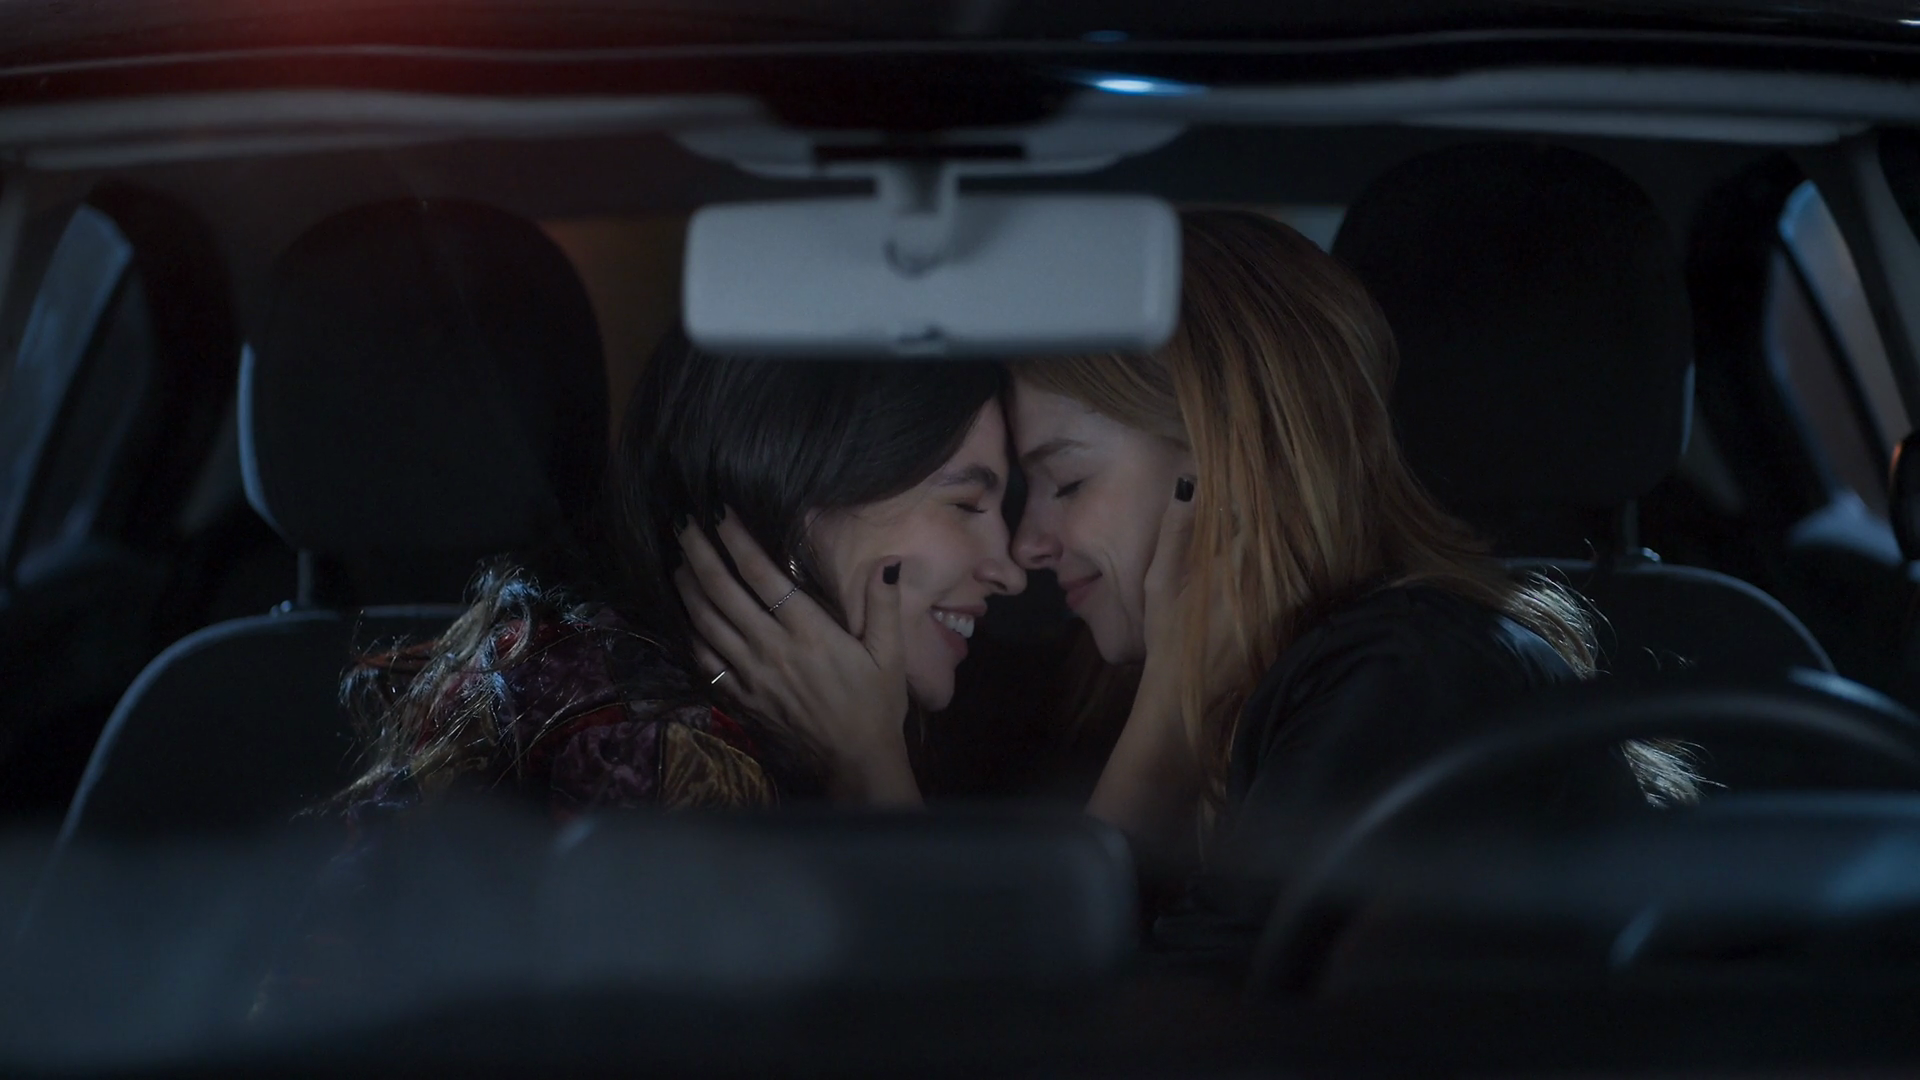
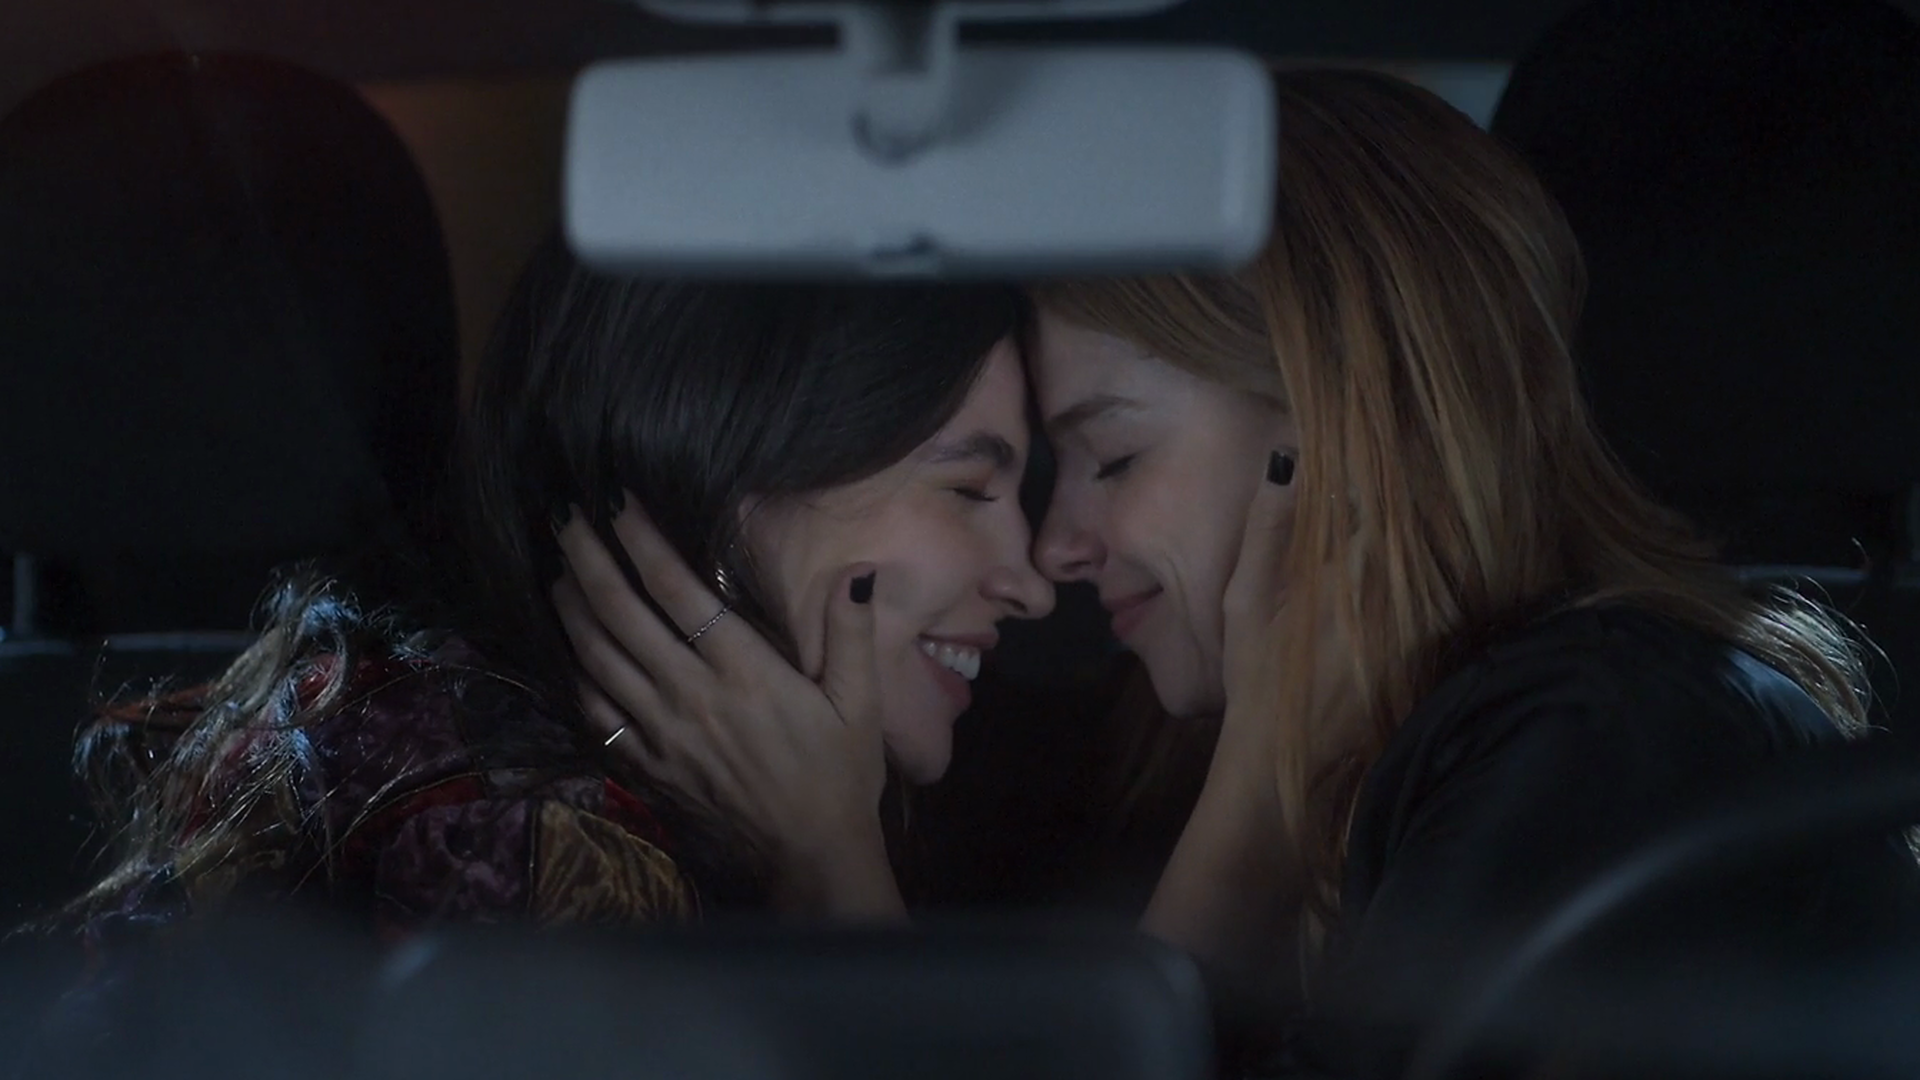
Latest site edits

diff --git a/styles.css b/styles.css
@@ -166,14 +166,9 @@ html.ship-images-off .ship-card .ship-images {
 }
 
 .ship-card:hover { transform: translateY(-4px); box-shadow: 0 8px 24px rgba(220,123,179,0.2); border-color: var(--pink); }
-.ship-images { padding: 0.75rem; background: rgba(0,0,0,0.2); border-radius: 16px 16px 0 0; min-height: 90px; overflow: hidden; }
+.ship-images { padding: 0.75rem; background: rgba(0,0,0,0.2); border-radius: 16px 16px 0 0; min-height: 90px; }
 .ship-img { width: 100%; max-width: 110px; height: 75px; object-fit: cover; border-radius: 12px; }
 .ship-card .ship-images .ship-img:only-child { max-width: 100%; width: 100%; height: auto; aspect-ratio: 16/9; }
-/* Tighter framing for wide shots (scale + origin so faces read closer to other cards) */
-.ship-card .ship-images .ship-img.ship-img--zoom:only-child {
-  transform: scale(1.28);
-  transform-origin: 50% 42%;
-}
 .ship-img-crop-right { object-position: 55% center; }
 .ship-content { padding: 1.25rem; }
 .ship-content h3 { font-family: 'JetBrains Mono', monospace; font-size: 1.1rem; margin: 0 0 0.5rem; display: flex; flex-wrap: wrap; gap: 0.35rem; }

diff --git a/index.html b/index.html
@@ -8,7 +8,7 @@
   <link rel="icon" href="/images/favicon.png?v=6" type="image/png" sizes="512x512">
   <link rel="apple-touch-icon" href="/images/favicon.png?v=6">
   
-  <link rel="stylesheet" href="styles.css?v=33">
+  <link rel="stylesheet" href="styles.css?v=32">
   <link rel="preconnect" href="https://fonts.googleapis.com">
   <link rel="preconnect" href="https://fonts.gstatic.com" crossorigin>
   <link href="https://fonts.googleapis.com/css2?family=JetBrains+Mono:wght@400;500;600;700&display=swap" rel="stylesheet">
@@ -53,7 +53,7 @@
       <div class="ship-grid">
         <article class="ship-card">
           <div class="ship-images">
-            <img src="/images/lorena-juquinha-a.png" alt="Lorena x Juquinha" class="ship-img ship-img--zoom" onerror="this.style.display='none'">
+            <img src="/images/lorena-juquinha-a.png" alt="Lorena x Juquinha" class="ship-img" onerror="this.style.display='none'">
           </div>
           <div class="ship-content">
             <h3>Lorena x Juquinha <span class="ship-meta">🇧🇷 (2025-2026)</span></h3>
